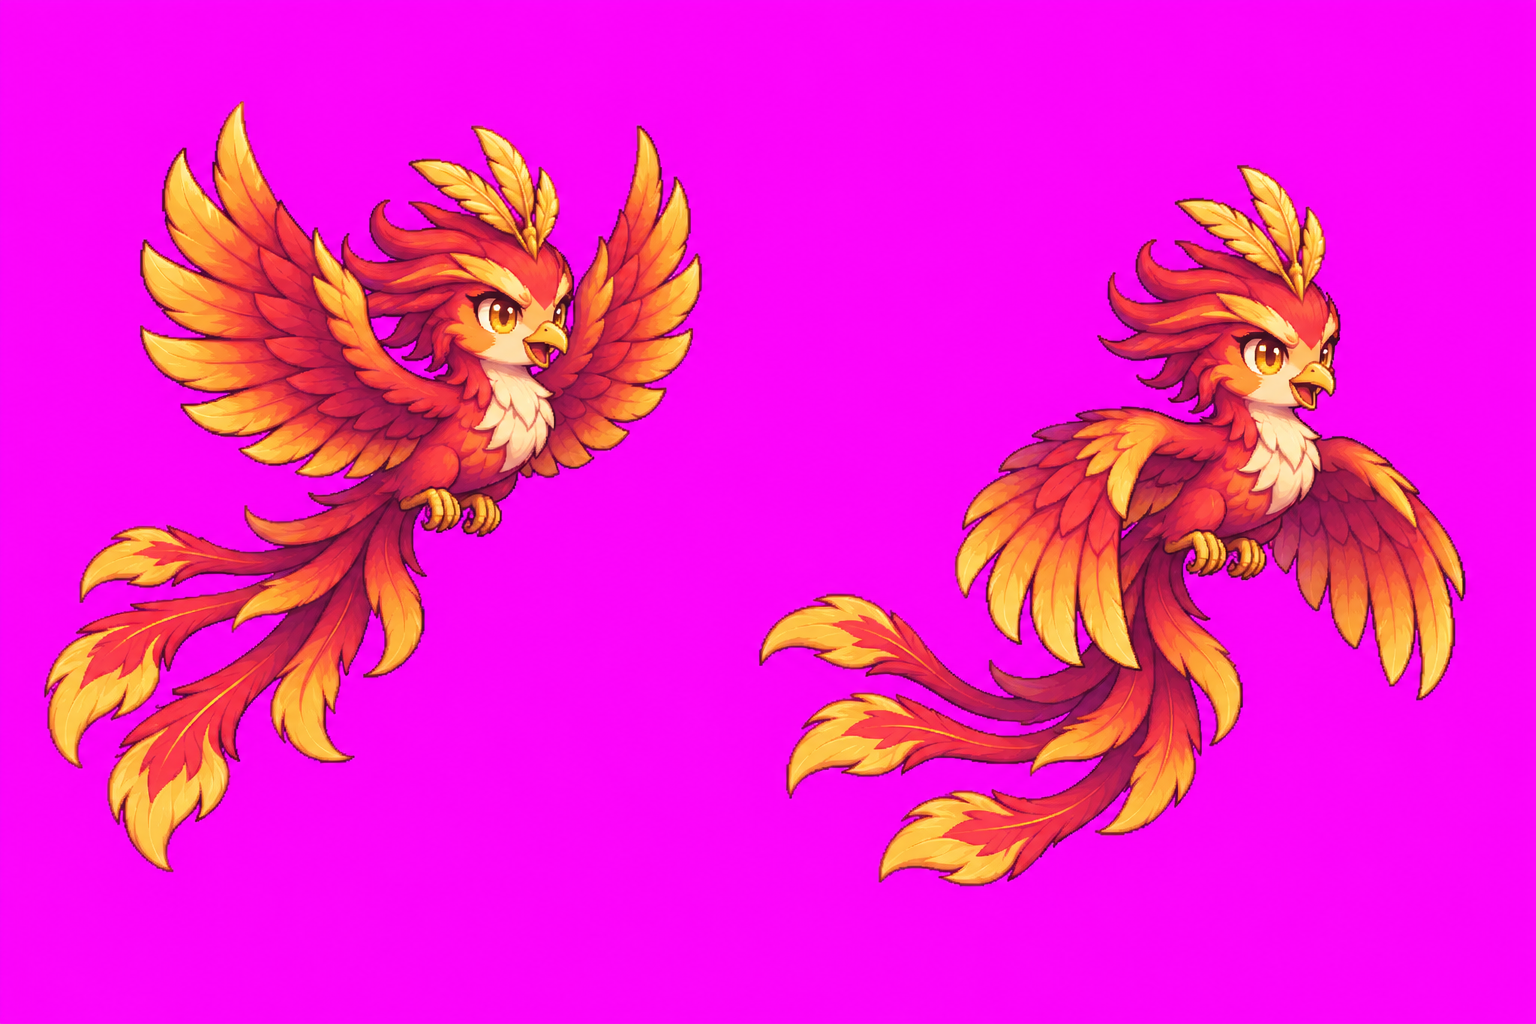
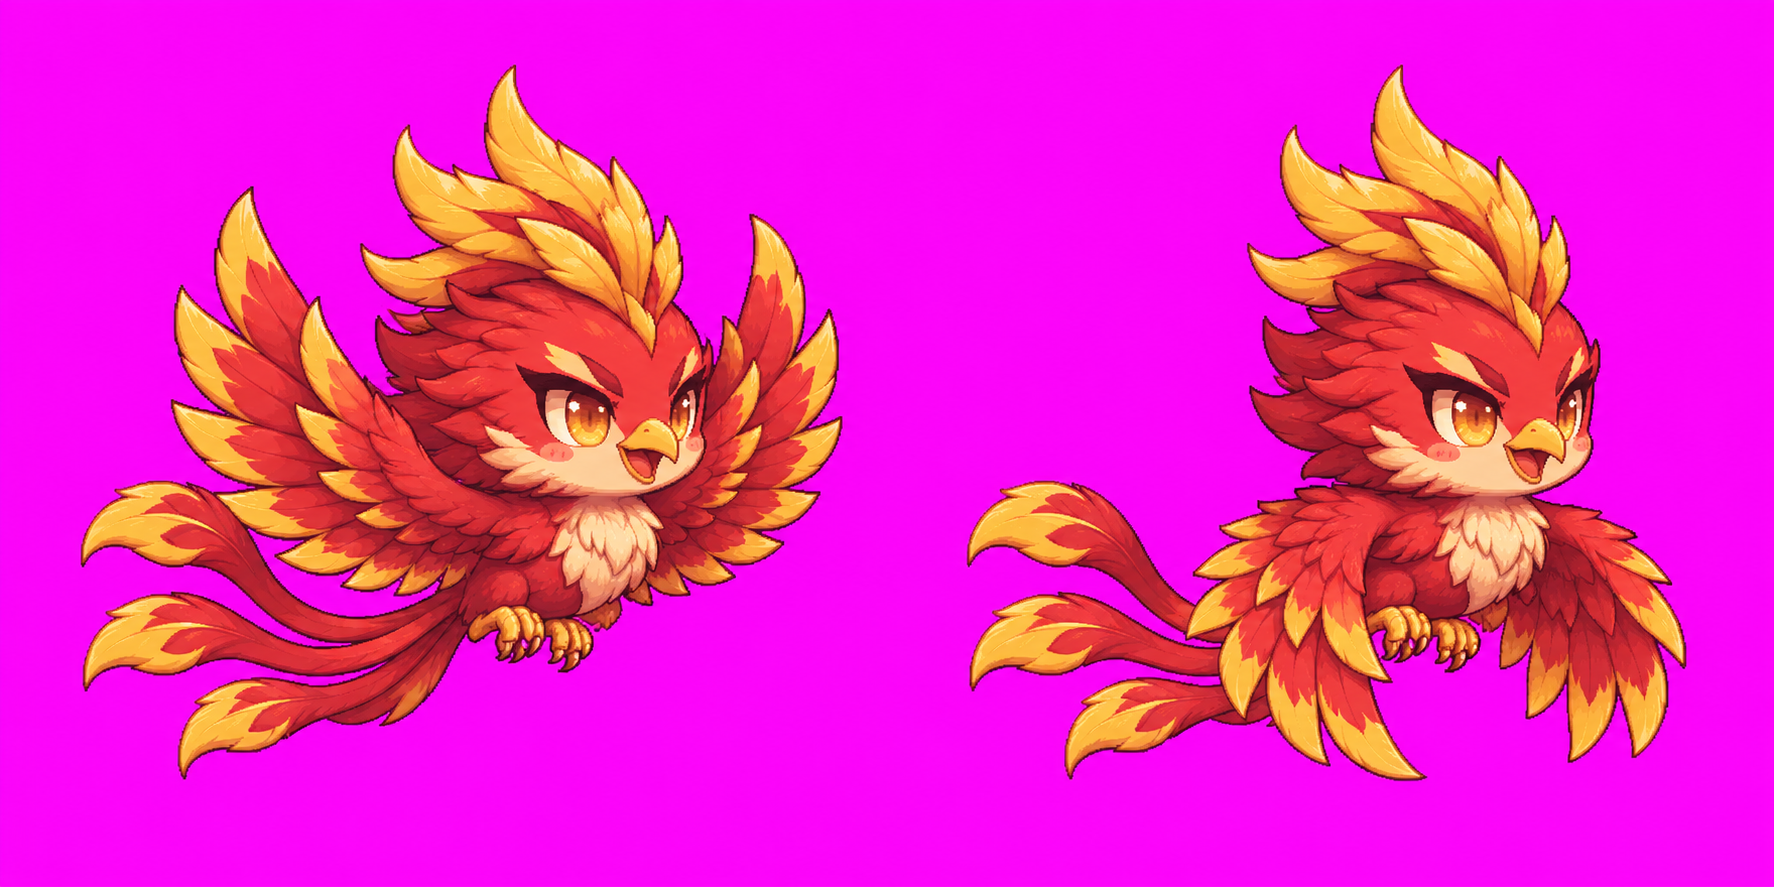
art(batch2): redesign zhuque__stand.png for guardian v2

diff --git a/idle-td-art/batch2/README.md b/idle-td-art/batch2/README.md
@@ -1,6 +1,6 @@
 # 放置塔防第二批點陣圖：工單 B1　神獸 4 隻
 
-狀態：進行中：ChatGPT 神獸 v2 四張站立（已交 2/4）；通過前不畫攻擊
+狀態：進行中：ChatGPT 神獸 v2 四張站立（已交 3/4）；通過前不畫攻擊
 （狀態只會是：待接手／進行中：<誰> <時間>／待驗收／完成通知）
 
 這是新遊戲「放置塔防」**第二批美術（神獸、塔、陣法）**的交接處，負責驗收的是 Claude 討論串「繪製塔防塔、陣法與神獸」。
@@ -117,11 +117,13 @@ GPT 畫歪時可以回它：
 |---|---|---|---|
 | `images/baihu__stand.png` | 1254×1254 | 1 | v2 大頭短身白虎，冰藍神氣眼、一顆小虎牙、王紋、玉飾金環三鈴與風旋毛尾。 |
 | `images/qinglong__stand.png` | 1774×887 | 2 | v2 大頭金角青龍，神氣金眼、短胖 S 形青鱗身體、藍白鬃與小白珠；兩格上下懸浮。 |
+| `images/zhuque__stand.png` | 1774×887 | 2 | v2 大圓頭朱雀、驕傲金眼與高金冠、短圓身、金邊大翼；兩格上振／下振翅膀。 |
 
 原圖 SHA-256：
 
[3 lines of base64/hex data omitted]
 
 ## 意見與待辦
 
